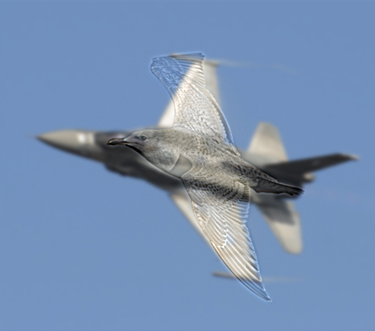
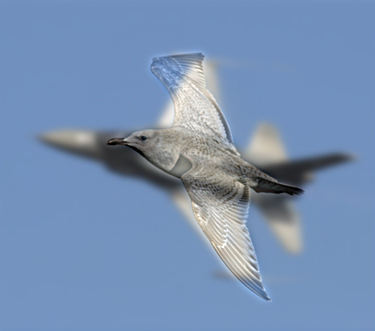
upload code and results

diff --git a/CV2024_HW2/align.py b/CV2024_HW2/align.py
@@ -1,0 +1,45 @@
+import numpy as np
+import cv2
+
+"""error"""
+def square_error(image_a, image_b):
+    image_a=(image_a-image_a.mean(axis=0))/(image_a.max(axis=0)-image_a.min(axis=0))
+    image_b=(image_b-image_b.mean(axis=0))/(image_b.max(axis=0)-image_b.min(axis=0))
+    return np.sum((image_a - image_b) ** 2)
+
+"""align"""
+def align_channel(fix_ch, align_ch, window_size=15):
+    min_error = float('inf')
+    align_offset = (0, 0)
+
+    for y_offset in range(-window_size, window_size + 1):
+        for x_offset in range(-window_size, window_size + 1):
+            al_ch = np.roll(align_ch, (y_offset, x_offset), axis=(0, 1)) # shift the image channel
+            s_error = square_error(fix_ch, al_ch)  # calculate error
+
+            # error
+            if s_error < min_error:
+                min_error = s_error
+                align_offset = (y_offset, x_offset)
+
+    align_ch = np.roll(align_ch, align_offset, axis=(0, 1))
+    return align_ch
+
+"""alignment wiht gaussian pyramid"""
+def image_pyramid_align(fix_ch, align_ch, levels=4, window_size=15):
+    fix_pyramid = [fix_ch]
+    align_pyramid = [align_ch]
+
+    # gaussian pyramid downsample
+    for _ in range(levels - 1):
+        fix_pyramid.append(cv2.pyrDown(fix_pyramid[-1])) # gaussian pyramid
+        align_pyramid.append(cv2.pyrDown(align_pyramid[-1]))  # gaussian pyramid
+
+    # Align from the smallest scale to the largest
+    align_ch = align_pyramid[-1]
+    for i in range(levels - 1, -1, -1):
+        align_ch = align_channel(fix_pyramid[i], align_ch, window_size//(2 ** i)) # decrease window size to reduce computation
+        if i > 0:
+            align_ch = cv2.pyrUp(align_ch, dstsize=(fix_pyramid[i - 1].shape[1], fix_pyramid[i - 1].shape[0]))
+
+    return align_ch

diff --git a/CV2024_HW2/colorize.py b/CV2024_HW2/colorize.py
@@ -1,0 +1,53 @@
+import numpy as np
+import cv2, os
+import matplotlib.pyplot as plt
+from align import image_pyramid_align
+
+def split_channels(image):
+    h = image.shape[0] // 3
+    blue_ch = image[:h]
+    green_ch = image[h:h*2]
+    red_ch = image[2*h:h*3]
+    return blue_ch, green_ch, red_ch
+
+
+def crop_image(image, crop_fraction=0.1):
+    h, w = image.shape
+    crop_h = int(h * crop_fraction)
+    crop_w = int(w * crop_fraction)
+    return image[crop_h:h-crop_h, crop_w:w-crop_w]
+
+def combine_channels(blue_ch, green_ch, red_ch):
+    return np.dstack((red_ch, green_ch, blue_ch))
+    # return np.dstack((blue_ch, green_ch, red_ch))
+
+def main(data_path, save_path):
+    img = cv2.imread(data_path, cv2.IMREAD_GRAYSCALE)
+    blue_ch, green_ch, red_ch = split_channels(img)
+    # Crop
+    blue_ch = crop_image(blue_ch)
+    green_ch = crop_image(green_ch)
+    red_ch = crop_image(red_ch)
+
+    # Align green and red channels to the blue channel using an image pyramid
+    for _ in range(2):
+        green_ch = image_pyramid_align(blue_ch, green_ch, levels=4, window_size=30)
+        red_ch = image_pyramid_align(blue_ch, red_ch, levels=4, window_size=30)
+
+    # Combine the aligned channels into an RGB image
+    rgb_img = combine_channels(blue_ch, green_ch, red_ch)
+
+    plt.imshow(rgb_img)
+    plt.savefig(save_path)
+    # plt.axis('off')
+    # plt.show()
+
+if __name__ == '__main__':
+    img_list = os.listdir(r'./task3_colorizing/custom')
+    
+    for img_name in img_list:
+        print(f'Processing : {img_name}')
+        save_img = img_name.split('.')[0]
+        save_path = rf'./out/{save_img}.jpg'
+        main(data_path=rf'./task3_colorizing/custom/{img_name}', 
+             save_path=save_path)

diff --git a/CV2024_HW2/hybrid.py b/CV2024_HW2/hybrid.py
@@ -58,9 +58,11 @@ def read_image(path):
     return image
 
 if __name__ == '__main__':
-    image_paths = glob.glob('data/task1and2_hybrid_pyramid/*')
+    image_paths = glob.glob('data/task1and2_hybrid_pyramid/*')  # use TA's data
+    # image_paths = glob.glob('my_data/*')  # use our data
     for i in range(0, len(image_paths)-1, 2):
         image1 = read_image(image_paths[i+1])
         image2 = read_image(image_paths[i])
-        hybrid_img = hybrid_image(image1, image2, D0_low=30, D0_high=30)
-        show_image(hybrid_img, f'hybrid_output_{int(i/2)}.png')
+        hybrid_img = hybrid_image(image1, image2, D0_low=15, D0_high=15)
+        show_image(hybrid_img, f'hybrid_output_{int(i/2)}.png')   # show results of TA's data
+        # show_image(hybrid_img, f'hybrid_output_mydata_{int(i/2)}.png')    # show results of our data
